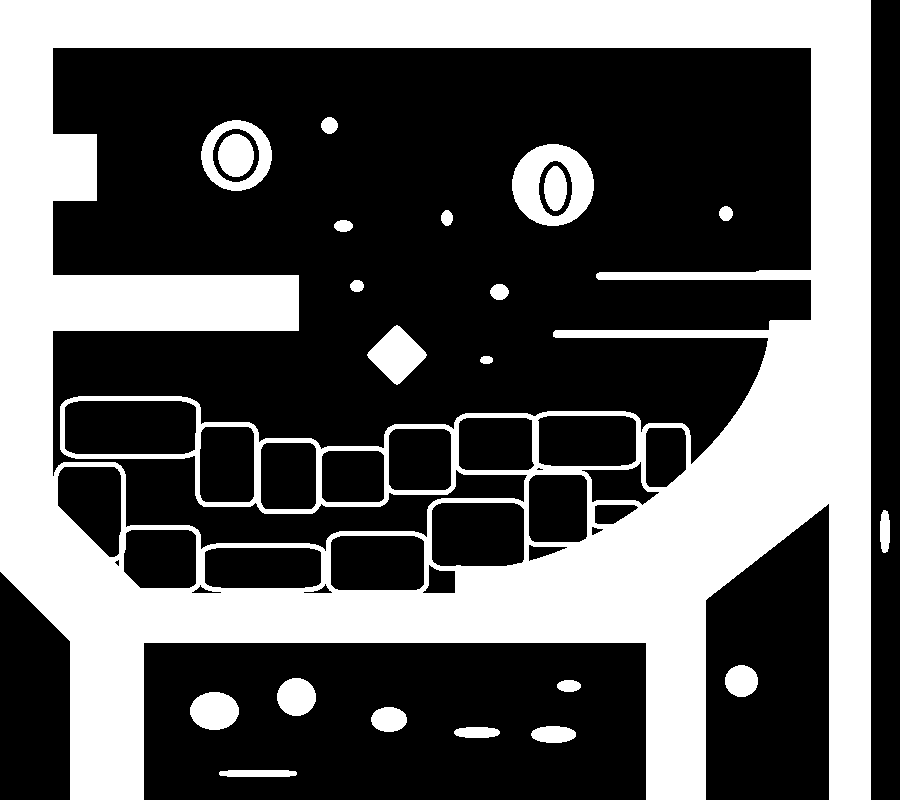
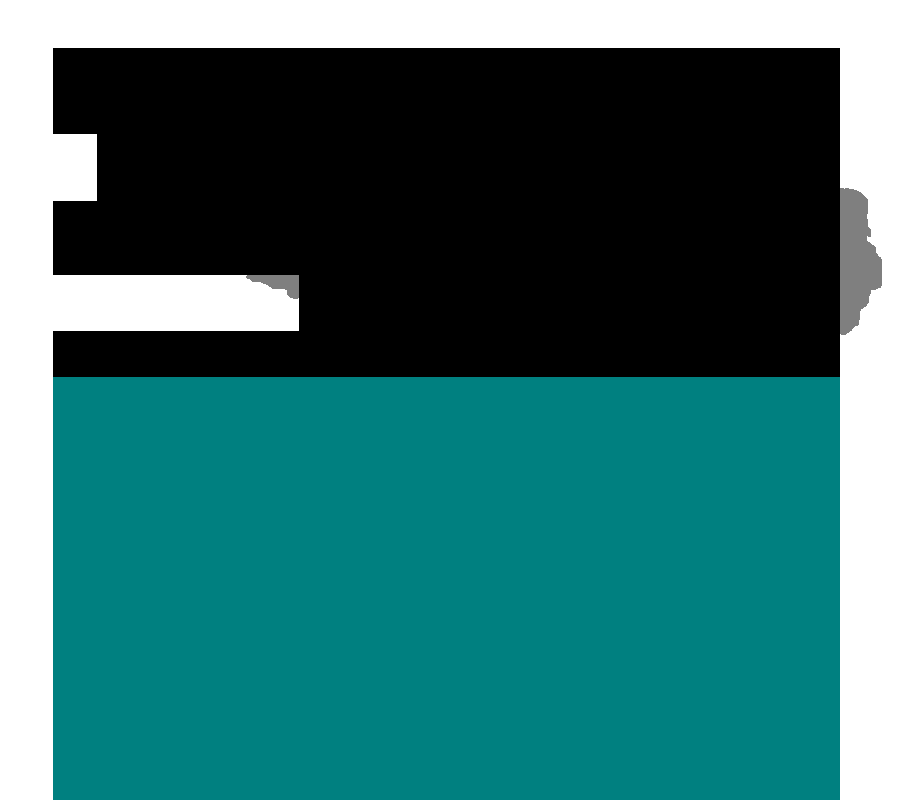
weak & kill terrain

diff --git a/grenadudes/terrain_entity.cpp b/grenadudes/terrain_entity.cpp
@@ -22,9 +22,13 @@ EntityTerrain::EntityTerrain(float scale, std::string filename) {
     terrain = new sf::Uint8[size.x * size.y * 4]; // 4 x 8 bit colour components for each pixel
     memcpy((void*)terrain, (void*)imgMap.getPixelsPtr(), (size_t)(size.x * size.y * 4));
     txtTerrainData.create(size.x, size.y); // for sfml rendering (passed to shader)
-    // load front-end texture
-    txtImage.loadFromFile("data/terrain.png");
-    txtImage.setRepeated(true);
+    // load front-end textures
+    txtSolid.loadFromFile("data/solid.png");
+    txtSolid.setRepeated(true);
+    txtWater.loadFromFile("data/water.png");
+    txtWater.setRepeated(true);
+    txtWeak.loadFromFile("data/weak.png");
+    txtWeak.setRepeated(true);
     // load fragment shader
     shdTerrain.loadFromFile("data/terrain.frag", sf::Shader::Fragment);
     // notify
@@ -62,9 +66,13 @@ bool EntityTerrain::get_solid(sf::Vector2f pos) {
     if (!pos_in_bounds(pos))
         return false;
     unsigned int base = (unsigned int)(((unsigned int)pos.y * size.x + (unsigned int)pos.x) * 4);
-    return (terrain[base + 0] == 255 &&
-            terrain[base + 1] == 255 &&
-            terrain[base + 2] == 255);
+    return !(terrain[base + 0] == 0 &&
+             terrain[base + 1] == 0 &&
+             terrain[base + 2] == 0)
+            &&
+           !(terrain[base + 0] == 0 &&
+             terrain[base + 1] == 128 &&
+             terrain[base + 2] == 128);
 }
 
 void EntityTerrain::set_solid() {
@@ -212,10 +220,12 @@ void EntityTerrain::draw(sf::RenderWindow &window) {
     if (!render) return;
     txtTerrainData.update(terrain); // update data texture
     // create terrain image sprite
-    sf::Sprite sprTerrain(txtImage);
+    sf::Sprite sprTerrain(txtSolid); // I think this has to be set for size only?
     sprTerrain.setTextureRect(sf::IntRect(0, 0, (int)size.x, (int)size.y));
     // pass parameters into shader
-    shdTerrain.setParameter("txtTerrain", txtImage);
+    shdTerrain.setParameter("txtSolid", txtSolid);
+    shdTerrain.setParameter("txtKill", txtWater);
+    shdTerrain.setParameter("txtWeak", txtWeak);
     shdTerrain.setParameter("txtData", txtTerrainData);
     shdTerrain.setParameter("sizeX", (float)size.x);
     shdTerrain.setParameter("sizeY", (float)size.y);

diff --git a/grenadudes/terrain_entity.h b/grenadudes/terrain_entity.h
@@ -42,8 +42,11 @@ private:
     sf::Vector2u size; // terrain texture size
     float scale; // scale factor for drawing
     sf::Shader shdTerrain;
-    sf::Texture txtImage; // terrain texture that is drawn
     sf::Uint8 *terrain; // terrain data
     sf::Texture txtTerrainData; // terrain data as a texture (updated at draw time)
+    // terrain textures that are drawn
+    sf::Texture txtSolid;
+    sf::Texture txtWater;
+    sf::Texture txtWeak;
     bool render;
 };
